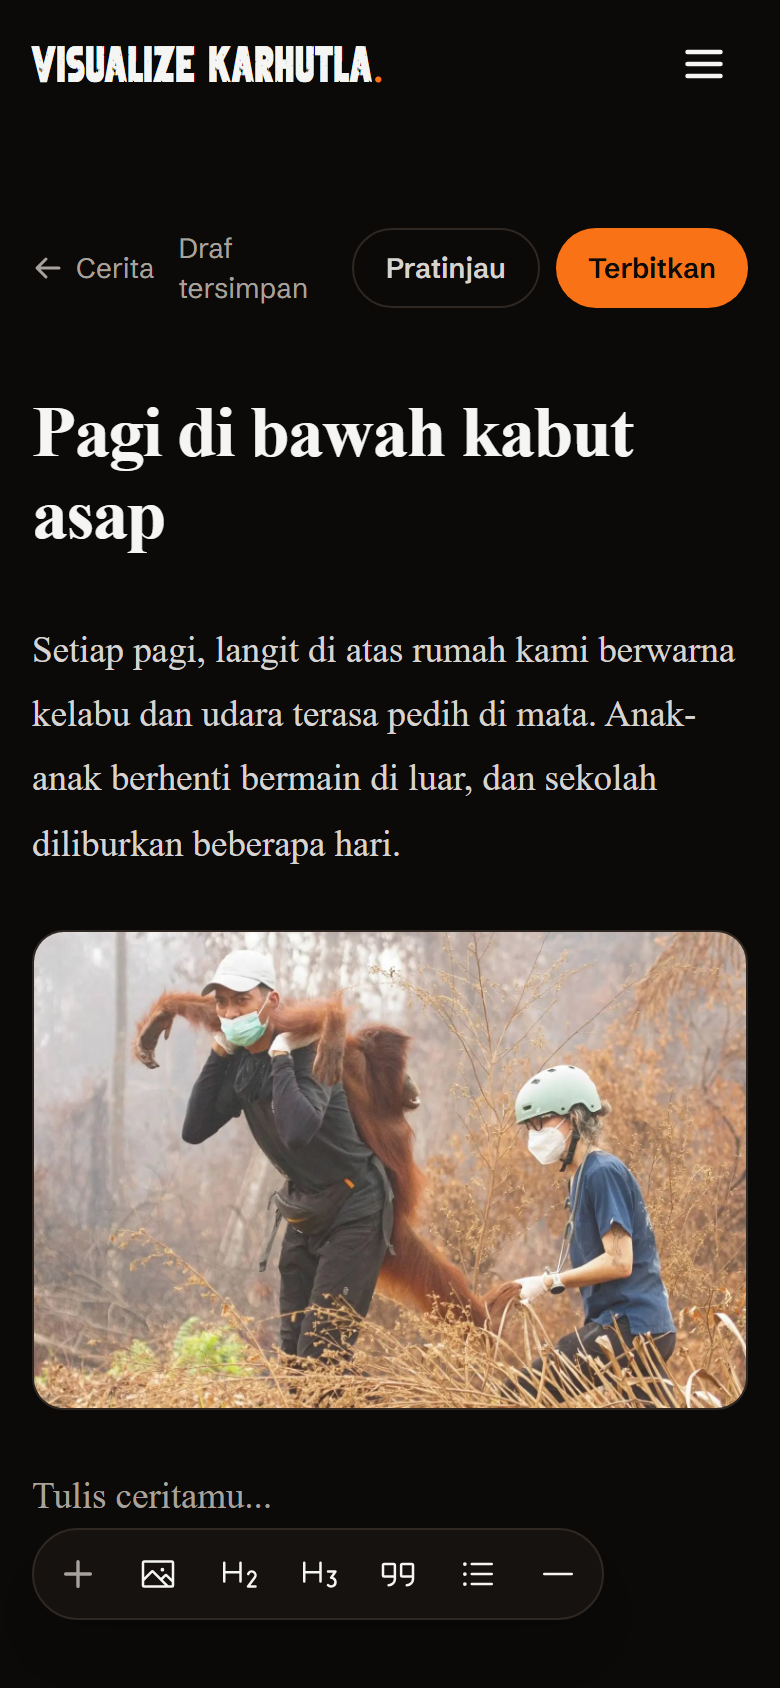
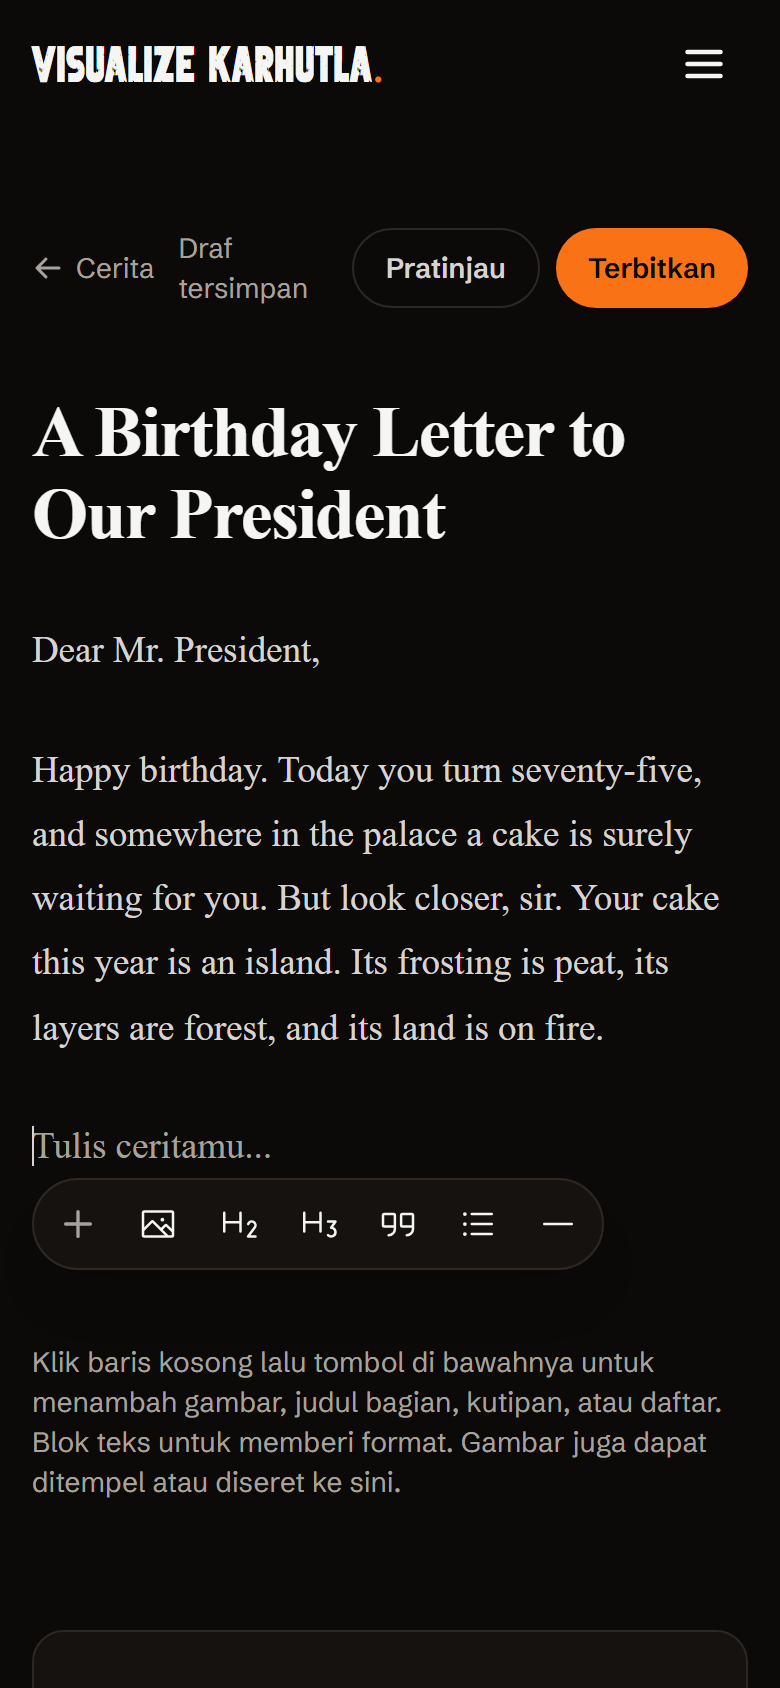
Promo Cerita karhutla: pakai artikel yang sudah terbit sebagai contoh (screenshot dari situs hidup)

diff --git a/docs/promo-cerita/slides.html b/docs/promo-cerita/slides.html
@@ -34,5 +34,5 @@ h1{position:absolute;left:84px;right:84px;top:285px;font-size:92px;line-height:1
 <p class="cap" style="left:120px;width:400px;top:1425px">Your story joins the <b>Cerita karhutla</b> feed.</p>
 <p class="cap" style="left:560px;width:400px;top:1475px">Read like an article, with <b>your name and photo</b>.</p>
 <div class="pill" style="top:1590px">Write yours</div>
-<p class="note" style="top:1715px">Example story shown for illustration.</p>
+<p class="note" style="top:1715px">Example: a story already published on the site.</p>
 </section></body></html>

diff --git a/docs/promo-cerita/README.md b/docs/promo-cerita/README.md
@@ -4,4 +4,4 @@
 - `img/`: tangkapan layar ponsel dari penyunting, formulir "Sebelum terbit", daftar cerita, dan halaman baca.
 - `build.mjs`: membangun `slides.html`; tangkap layar dengan Chrome (jendela 1080 x 5760) lalu potong per 1920 px.
 
-Catatan: tangkapan layar memakai cerita contoh (bukan tulisan sungguhan) yang sudah dihapus dari situs; slide 3 memuat keterangan "Example story shown for illustration."
+Catatan: tangkapan layar memakai cerita yang sudah terbit di situs ("A Birthday Letter to Our President", penulis harrie), diambil dari situs hidup; slide 3 memuat keterangan "Example: a story already published on the site."
